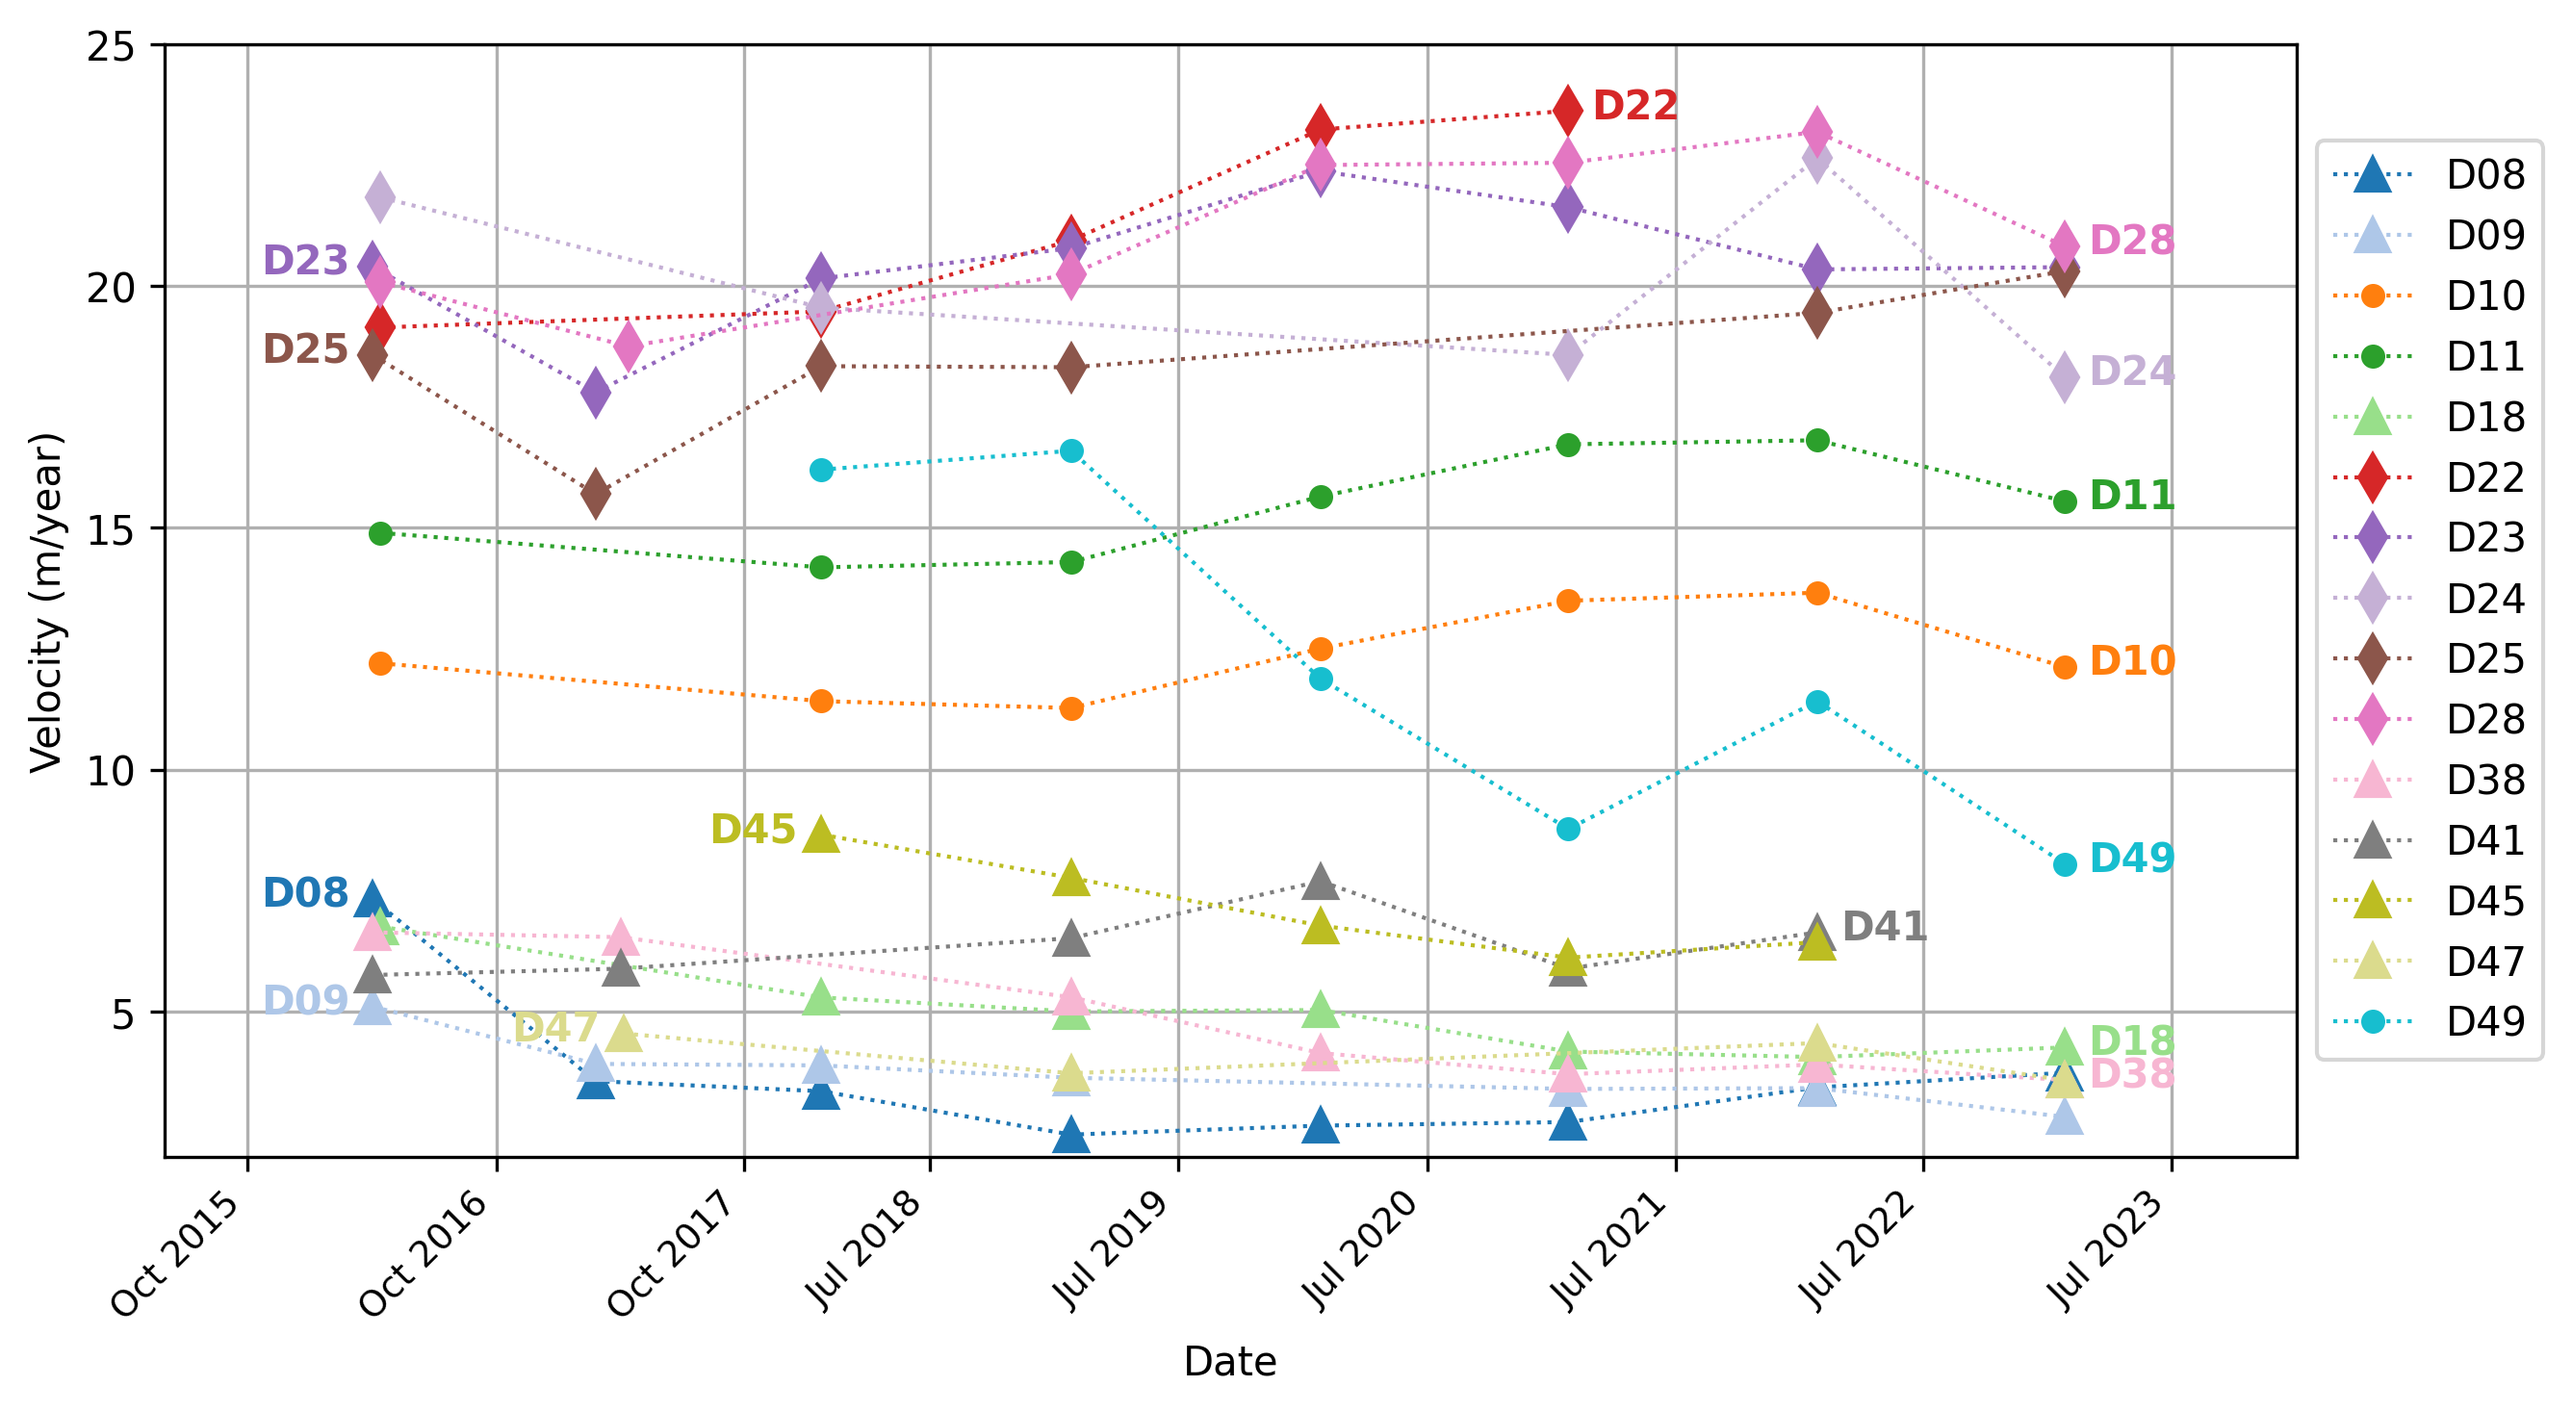
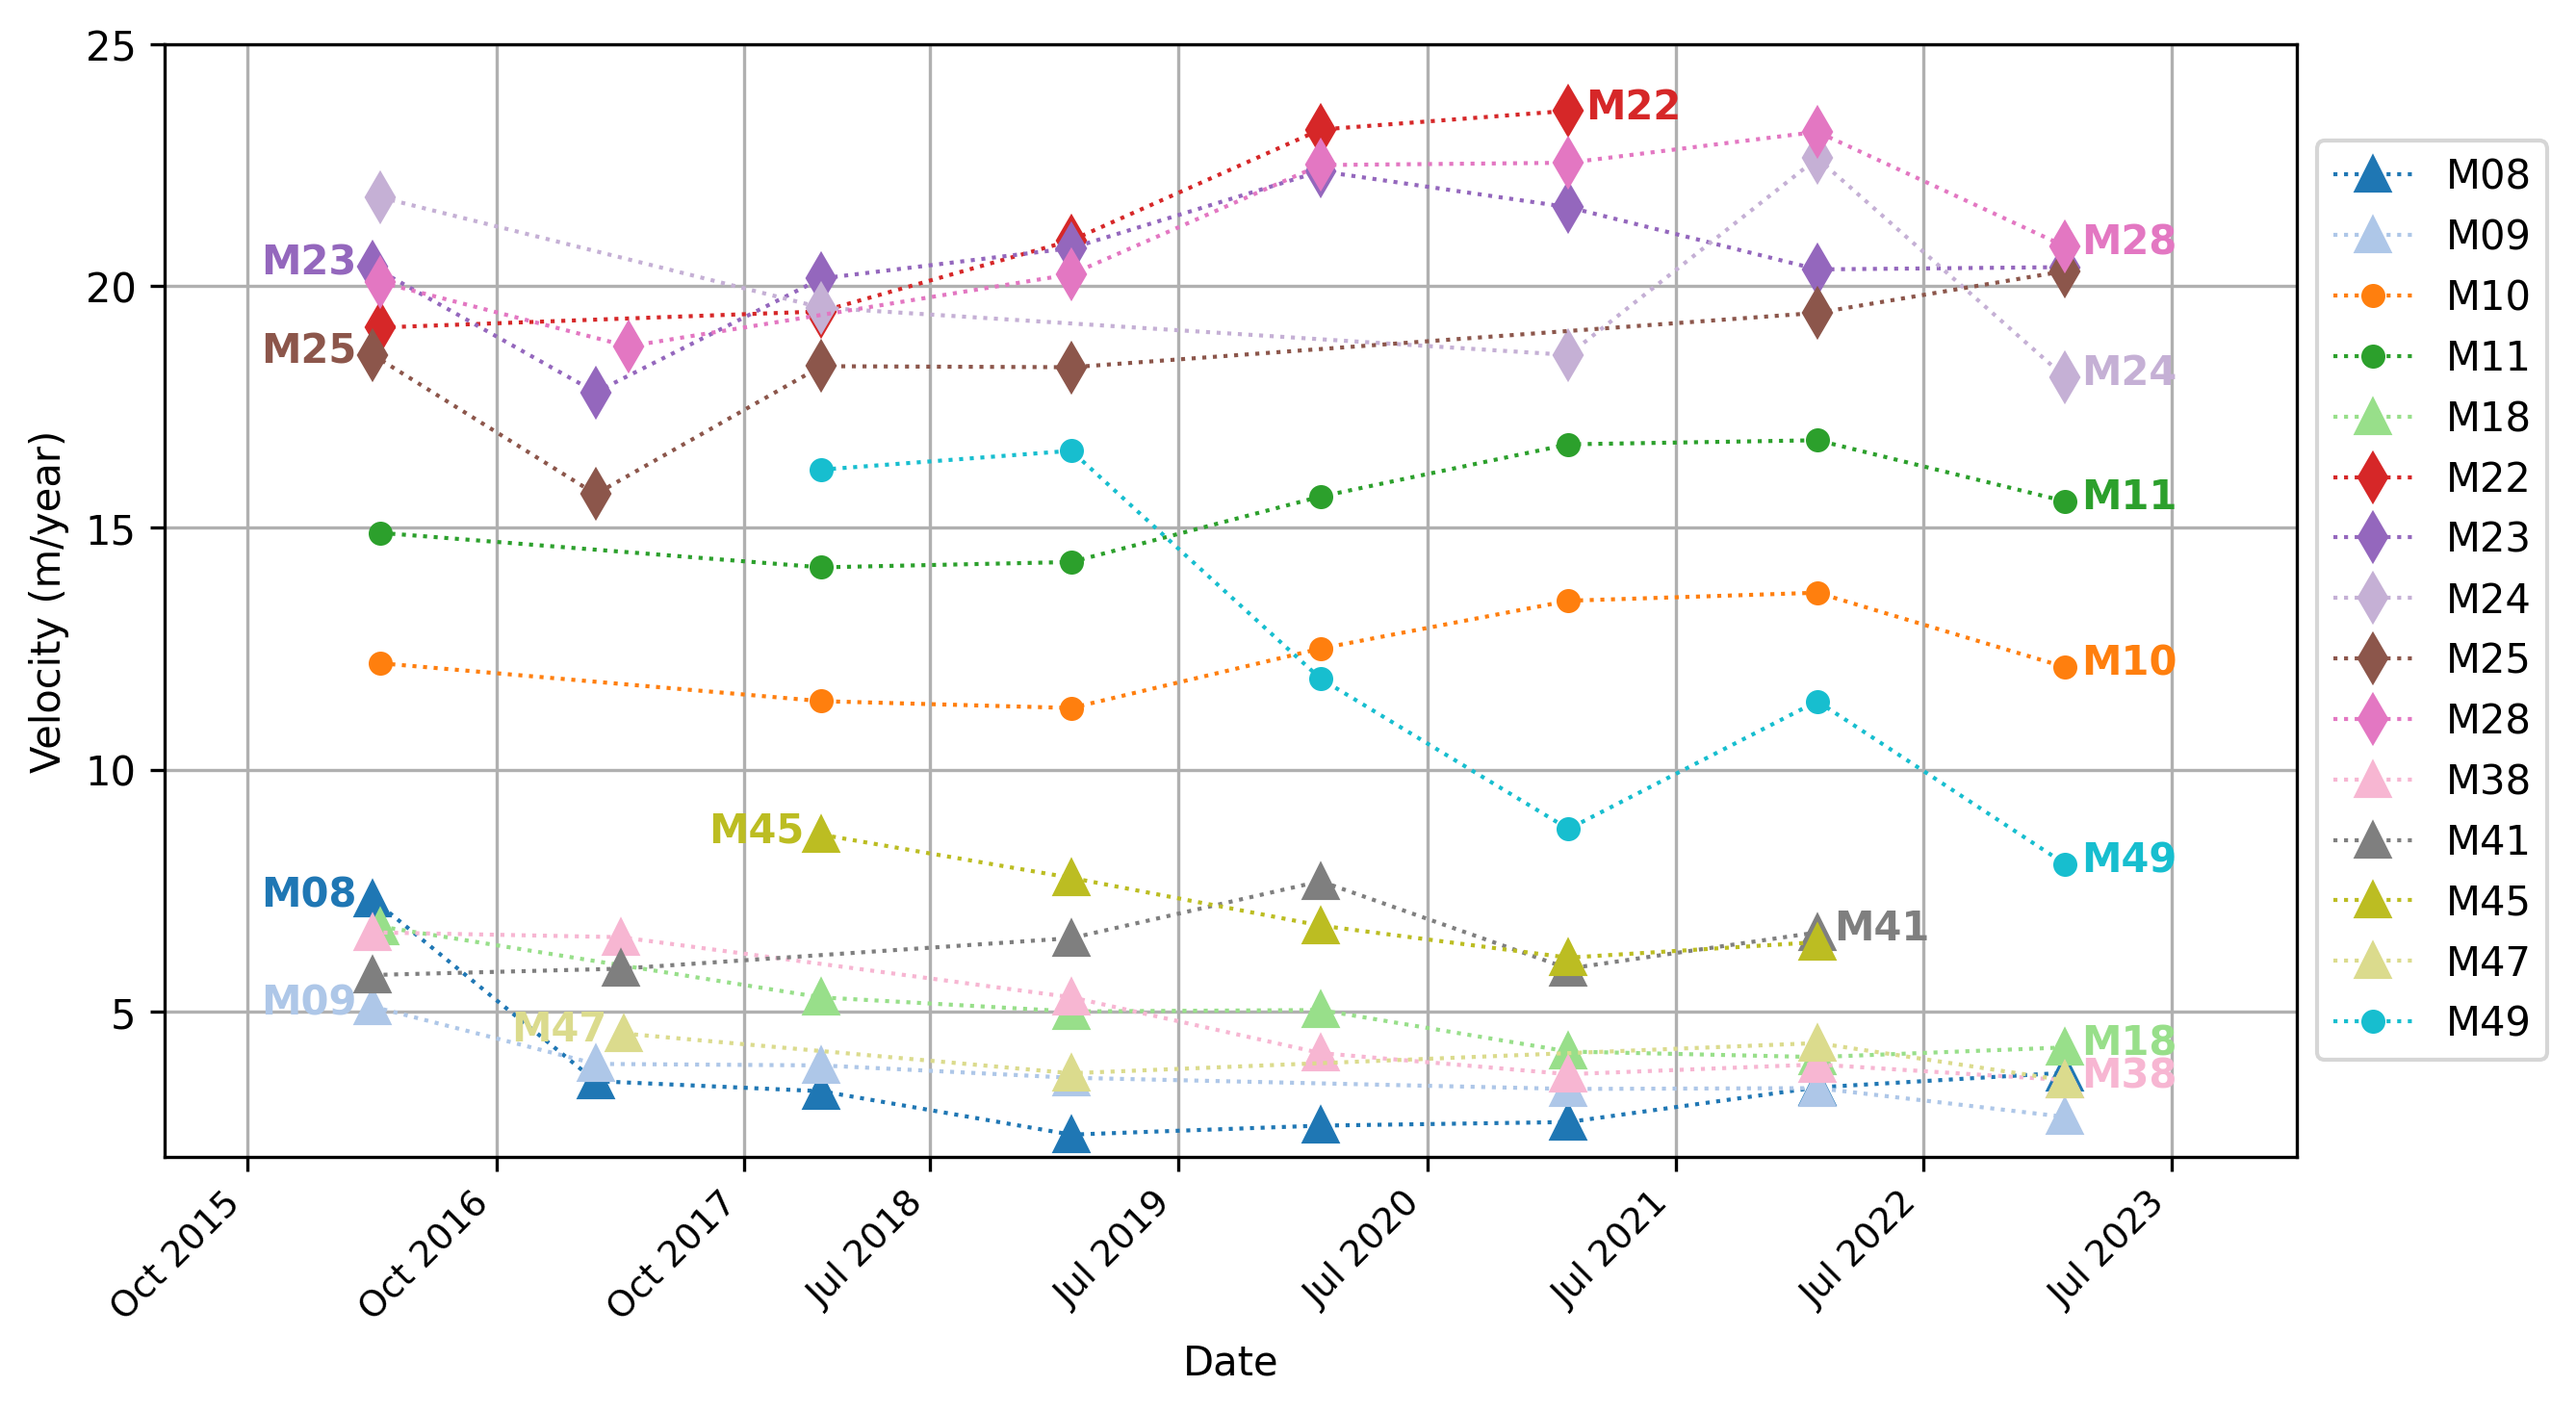
Updates from Overleaf

diff --git a/chapters/chapter1.tex b/chapters/chapter1.tex
@@ -162,10 +162,13 @@ Research in this domain has progressed rapidly, with models specifically designe
 
 \section{Objectives}
 
-This thesis presents an integrated approach to monitoring an alpine glacier across multiple spatial and temporal scales, using photogrammetric and image-based techniques. 
-The study focuses specifically on the debris-covered Belvedere Glacier in the Italian Alps.
+This thesis explores the potential of multi-scale and multi-temporal photogrammetry 
+for monitoring alpine glaciers, with a particular focus on the debris-covered Belvedere Glacier in the Italian Alps (see \secref{sec:1:belvedereglacier}).
 
-The work begins by examining major geomorphological changes over decades at the meter scale to establish a broad temporal and spatial context, and then it moves to a finer scale, focusing on changes at the centimeter scale with daily observations to capture the short-term dynamics of this rapidly evolving environment.
+This investigation integrates a spectrum of photogrammetric techniques.  
+Firstly, historical aerial imagery analysis provides a long-term perspective on decades-long geomorphological changes at the meter scale.  
+Secondly, in-situ UAV acquisitions enable annual reconstructions of glacier morphology, allowing for precise change analysis at a high spatial resolution.  
+Finally, permanent in-situ monitoring using a low-cost stereo camera system allows for capturing the short-term dynamics of this rapidly changing environment.
 
 \textcolor{red}{Add figure of multi-temporal/multi-scale}
 
@@ -198,16 +201,10 @@ To overcome this obstacle, a novel pipeline was developed using state-of-the-art
 This thesis presents a successful pilot test of the low-cost glacier monitoring system.
 The current uses only two cameras installed at the northwest terminal lobe of the Belvedere glacier, focused on the terminal ice cliff, which is the portion of the glacier that is experiencing the most severe retreat and fast evolution. 
 To achieve a more comprehensive and robust monitoring framework capable of capturing the full dynamics of the glacier, the system needs to be scaled up. 
-Expanding the camera network will increase the coverage and significantly improve the quality of the daily 3D reconstructions through greater data redundancy.
+Expanding the camera network will increase the coverage and significantly improve the quality of daily 3D reconstructions through greater data redundancy.
 Motivated by this potential, the final part of this thesis focuses on the development of a flexible multi-view library. 
 This library enables image matching using both state-of-the-art deep learning algorithms and traditional hand-crafted features. 
 Crucially, it integrates seamlessly with existing photogrammetric software for streamlined 3D reconstruction, thus supporting a future expansion of the monitoring system.
-
-This thesis explores the potential of multi-scale and multi-temporal photogrammetry for alpine glacier monitoring.  
-The research will encompass a range of photogrammetric techniques, spanning historical aerial imagery for long-term analysis, modern UAV acquisitions for annual accurate reconstruction of the glacier morphology, to permanent in-situ monitoring techniques based on low-cost stereo cameras for daily kinematics analysis.
-
-
-\textcolor{red}{EXPAND OBJECTIVES... }
 
 \section{The Belvedere Glacier}\label{sec:1:belvedereglacier}
 

diff --git a/chapters/chapter3.tex b/chapters/chapter3.tex
@@ -548,7 +548,7 @@ GCPs and instead relied on natural features identified in the 2019 model as GCPs
         \includegraphics[height=5.9cm]{gnss_velocities_map}
     }
     \caption{\textbf{(a)} Time series of the velocity computed from the GNSS measurements of the targets deployed across the glacier. 
-    \textbf{(b)} Location of the targets in the last surveying year. \textcolor{red}{REPLACE D with M in point labels}}
+    \textbf{(b)} Location of the targets in the last surveying year.}
     \label{fig:3:GNSS_velocity}		
 \end{figure}
 
@@ -781,7 +781,7 @@ It also contains periodic GNSS measurements of photogrammetric targets and outpu
 \begin{figure}[ht!]
   \centering
   \includegraphics[width=0.9\textwidth]{belvederedb_erd.png}
-  \caption{\textcolor{red}{TEMPORARY}}
+  \caption{ERD diagram of the PostgreSQL database used for storing the Belvedere results. \textcolor{red}{TEMPORARY}}
   \label{fig:3:belvederedb_erd}
 \end{figure}
 
